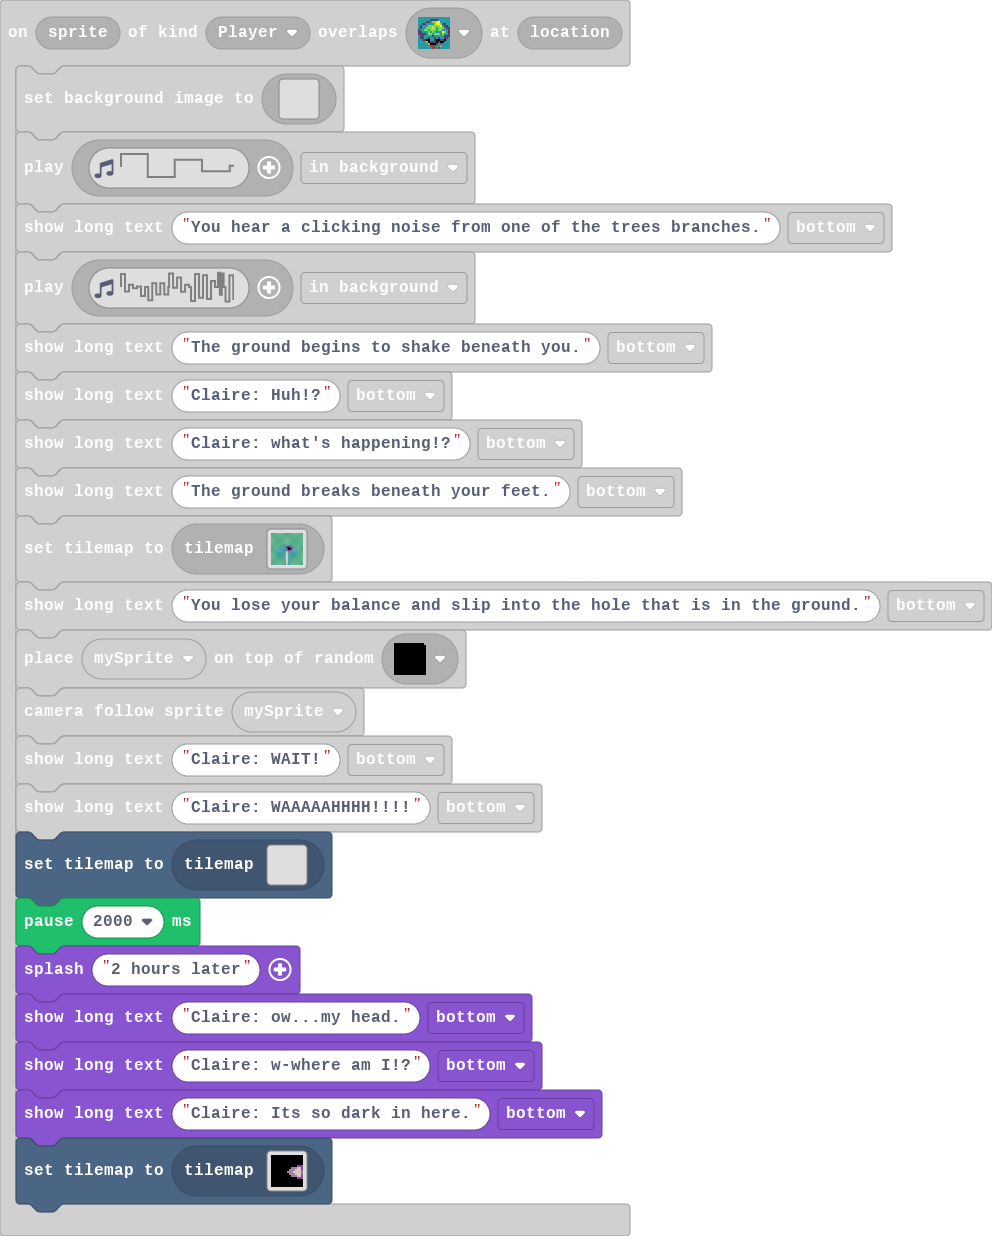
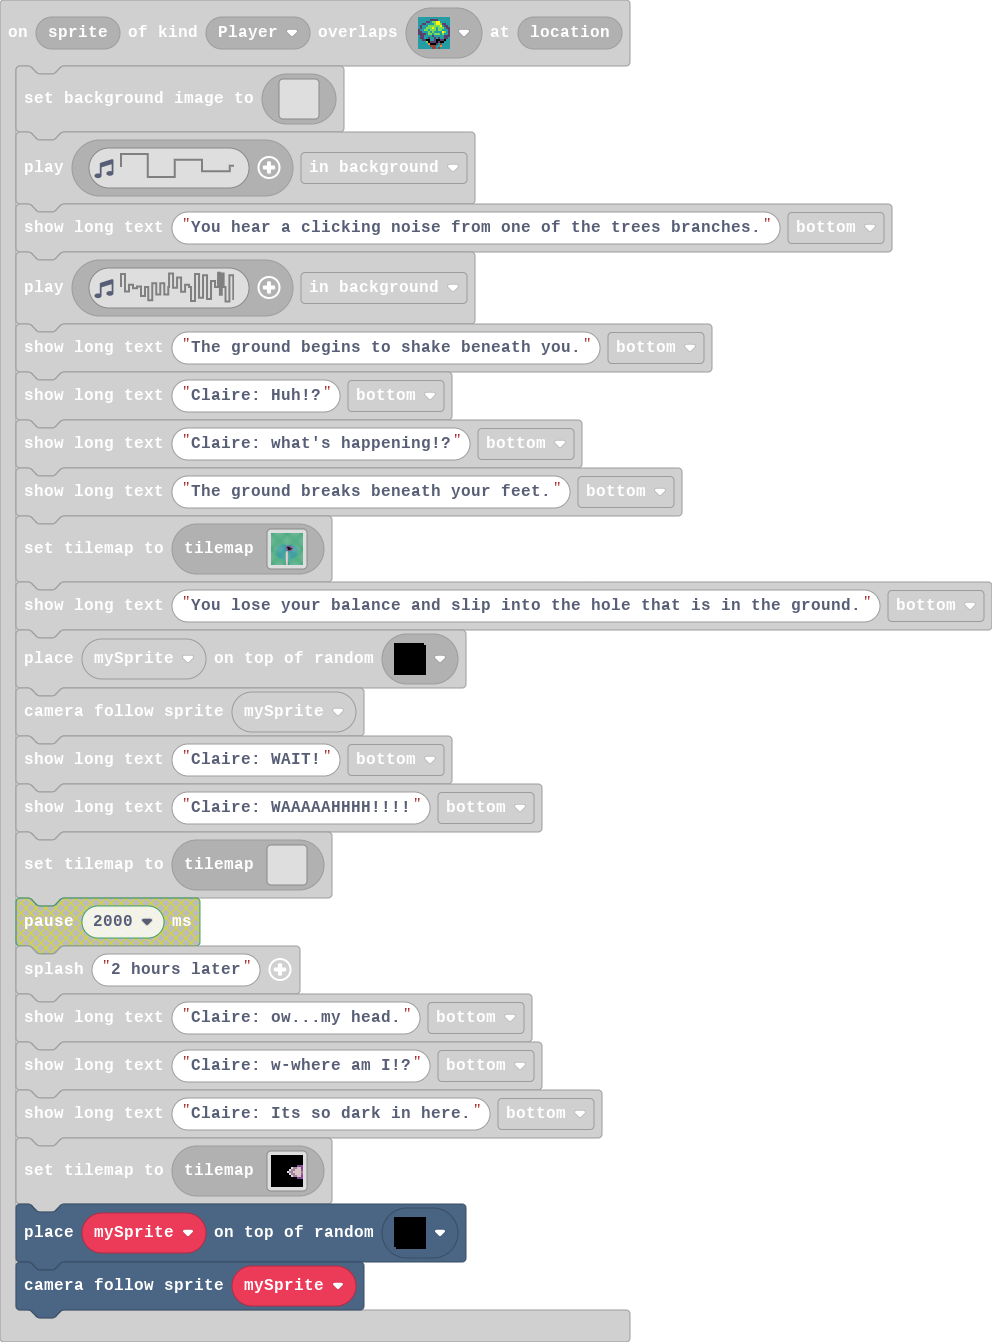
Update main.blocks, main.ts, tilemap.g.jres, tilemap.g.ts

diff --git a/tilemap.g.ts b/tilemap.g.ts
@@ -618,8 +618,27 @@ namespace myTiles {
 2222222222222....2222222222222
 2222222222222....2222222222222
 `, [myTiles.transparency16,myTiles.tile103,myTiles.tile104,sprites.castle.tileDarkGrass3,sprites.castle.tilePath5,myTiles.tile113,myTiles.tile109,myTiles.tile114,myTiles.tile115,myTiles.tile116,myTiles.tile119,sprites.dungeon.purpleOuterNorthWest,sprites.dungeon.purpleOuterNorth1,sprites.dungeon.purpleOuterNorthEast,sprites.dungeon.purpleInnerNorthEast,sprites.dungeon.purpleInnerSouthWest,sprites.dungeon.purpleOuterEast0,sprites.dungeon.purpleOuterSouthEast,sprites.dungeon.purpleOuterSouthWest,sprites.dungeon.purpleOuterSouth1,sprites.dungeon.purpleInnerNorthWest,sprites.dungeon.purpleOuterWest1,myTiles.tile120,myTiles.tile121], TileScale.Sixteen);
+            case "level4":
+            case "level4":return tiles.createTilemap(hex`1000100000000000000000000000000000000000000000000000000000000000000000000000000000000000000000000000000000000000000000000000000000000000000000000000000000000000000000000000000000000000000000000000000000000000000000000000000000000000000000000000000000000000000000000000000000000000000000000000000000000000000000000000000000000000000000000000000000000000000000000000000000000000000000000000000000000000000000000000000000000000000000000000000000000000000000000000000000000000000000000000000000000000000000000000000000000000`, img`
+. . . . . . . . . . . . . . . . 
+. . . . . . . . . . . . . . . . 
+. . . . . . . . . . . . . . . . 
+. . . . . . . . . . . . . . . . 
+. . . . . . . . . . . . . . . . 
+. . . . . . . . . . . . . . . . 
+. . . . . . . . . . . . . . . . 
+. . . . . . . . . . . . . . . . 
+. . . . . . . . . . . . . . . . 
+. . . . . . . . . . . . . . . . 
+. . . . . . . . . . . . . . . . 
+. . . . . . . . . . . . . . . . 
+. . . . . . . . . . . . . . . . 
+. . . . . . . . . . . . . . . . 
+. . . . . . . . . . . . . . . . 
+. . . . . . . . . . . . . . . . 
+`, [myTiles.transparency16], TileScale.Sixteen);
             case "Dungeon level dark":
[2 lines of base64/hex data omitted]
 . . . . . . . . . . . . . . . . 
 . . . . . . . . . . . . . . . . 
 . . . . . . . . . . . . . . . . 
@@ -637,8 +656,8 @@ namespace myTiles {
 . . . . . . . . . . . . . . . . 
 . . . . . . . . . . . . . . . . 
 `, [myTiles.transparency16,myTiles.tile120,myTiles.tile121,sprites.dungeon.floorDark0,sprites.dungeon.purpleOuterNorth1,sprites.dungeon.purpleOuterNorthEast,sprites.dungeon.purpleOuterEast0,sprites.dungeon.purpleOuterSouthWest,sprites.dungeon.purpleOuterSouth1,sprites.dungeon.floorLight4,sprites.dungeon.purpleOuterEast2,myTiles.tile122,sprites.dungeon.doorLockedEast], TileScale.Sixteen);
-            case "level4":
-            case "level4":return tiles.createTilemap(hex`1000100000000000000000000000000000000000000000000000000000000000000000000000000000000000000000000000000000000000000000000000000000000000000000000000000000000000000000000000000000000000000000000000000000000000000000000000000000000000000000000000000000000000000000000000000000000000000000000000000000000000000000000000000000000000000000000000000000000000000000000000000000000000000000000000000000000000000000000000000000000000000000000000000000000000000000000000000000000000000000000000000000000000000000000000000000000000`, img`
+            case "level8":
+            case "level8":return tiles.createTilemap(hex`1000100000000000000000000000000000000000000000000000000000000000000000000000000000000000000000000000000000000000000000000000000000000000000000000000000000000000000000000000000000000000000000000000000000000000000000000000000000000000000000000000000000000000000000000000000000000000000000000000000000000000000000000000000000000000000000000000000000000000000000000000000000000000000000000000000000000000000000000000000000000000000000000000000000000000000000000000000000000000000000000000000000000000000000000000000000000000`, img`
 . . . . . . . . . . . . . . . . 
 . . . . . . . . . . . . . . . . 
 . . . . . . . . . . . . . . . . 

diff --git a/main.ts b/main.ts
@@ -112,12 +112,13 @@ scene.onOverlapTile(SpriteKind.Player, assets.tile`myTile111`, function (sprite,
     game.showLongText("Claire: WAIT!", DialogLayout.Bottom)
     game.showLongText("Claire: WAAAAAHHHH!!!!", DialogLayout.Bottom)
     tiles.setCurrentTilemap(tilemap`NAP`)
-    pause(2000)
     game.splash("2 hours later")
     game.showLongText("Claire: ow...my head.", DialogLayout.Bottom)
     game.showLongText("Claire: w-where am I!?", DialogLayout.Bottom)
     game.showLongText("Claire: Its so dark in here.", DialogLayout.Bottom)
     tiles.setCurrentTilemap(tilemap`Dungeon level dark`)
+    tiles.placeOnRandomTile(mySprite, assets.tile`myTile118`)
+    scene.cameraFollowSprite(mySprite)
 })
 scene.onOverlapTile(SpriteKind.Player, assets.tile`myTile91`, function (sprite, location) {
     tiles.setCurrentTilemap(tilemap`Claires room no mom`)
